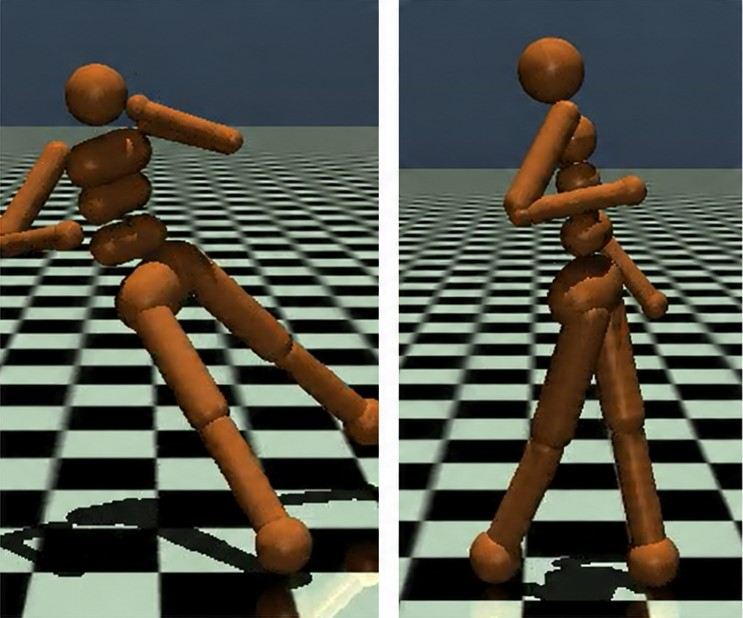
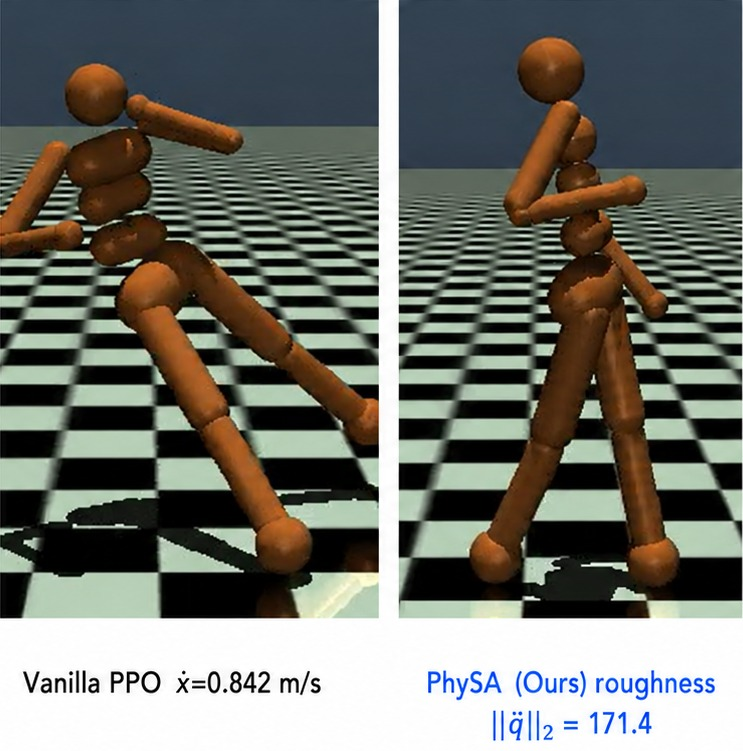
Homepage: use the original Fig. 8(a) captions in the PhySA thumbnail

diff --git a/index.html b/index.html
@@ -153,9 +153,6 @@
     .pub + .pub { margin-top: 28px; }
     .pub .thumb { display: block; }
     .pub .thumb img { display: block; width: 100%; height: auto; border-radius: 6px; box-shadow: 0 0 0 1px var(--rule); }
-    .pub .caps { display: grid; grid-template-columns: 379fr 344fr; gap: 0 5px; margin-top: 5px; font-size: 0.72rem; line-height: 1.35; text-align: center; color: var(--text-muted); }
-    .pub .caps .ours { color: var(--accent); }
-    .pub .caps sub { font-size: 0.75em; line-height: 0; }
     .pub .info { min-width: 0; }
     .pub h3 { margin: 0 0 4px; font-size: 1rem; font-weight: 600; line-height: 1.5; text-wrap: pretty; }
     .pub p { margin: 0; font-size: 0.95rem; line-height: 1.6; }
@@ -346,11 +343,7 @@
     <ul class="pubs">
       <li class="pub">
         <a class="thumb" href="https://arxiv.org/abs/2611.07679" target="_blank" rel="noopener noreferrer">
-          <img src="physa-thumb.jpg" alt="Humanoid poses from a vanilla PPO rollout and a PhySA rollout" width="743" height="618" />
-          <span class="caps">
-            <span>Vanilla PPO<br />ẋ = 0.842 m/s</span>
-            <span class="ours">PhySA (Ours)<br />‖q̈‖<sub>2</sub> = 171.4</span>
-          </span>
+          <img src="physa-thumb.jpg" alt="Humanoid poses from a vanilla PPO rollout and a PhySA rollout" width="743" height="751" />
         </a>
         <div class="info">
           <h3><a href="https://arxiv.org/abs/2611.07679" target="_blank" rel="noopener noreferrer">PhySA: Decoupling Aesthetic and Physical Rewards for Humanoid Locomotion</a></h3>
